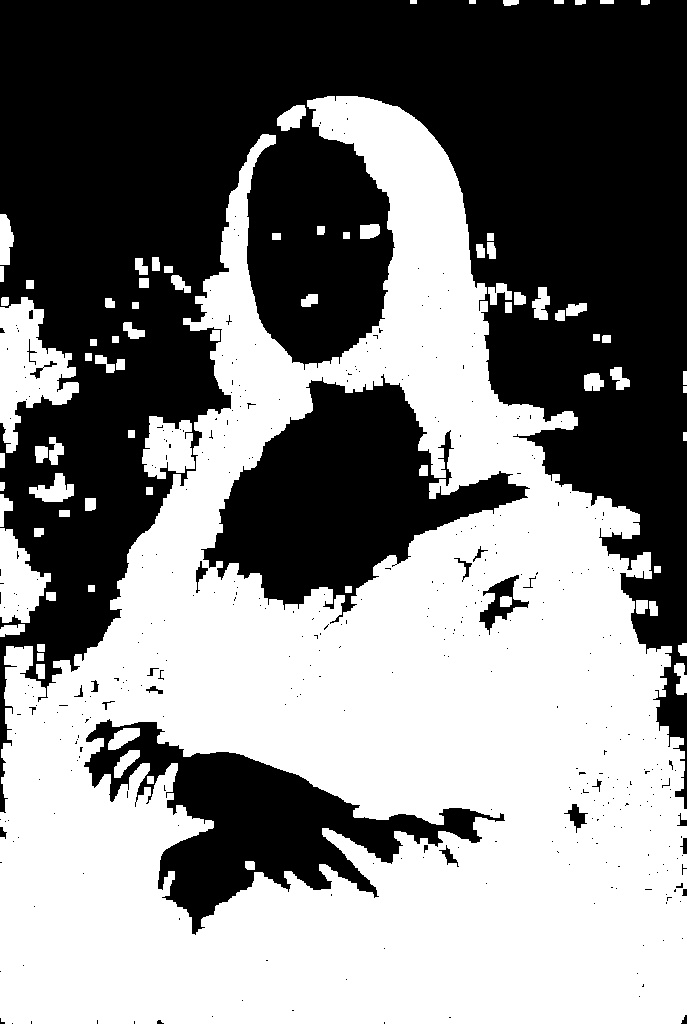
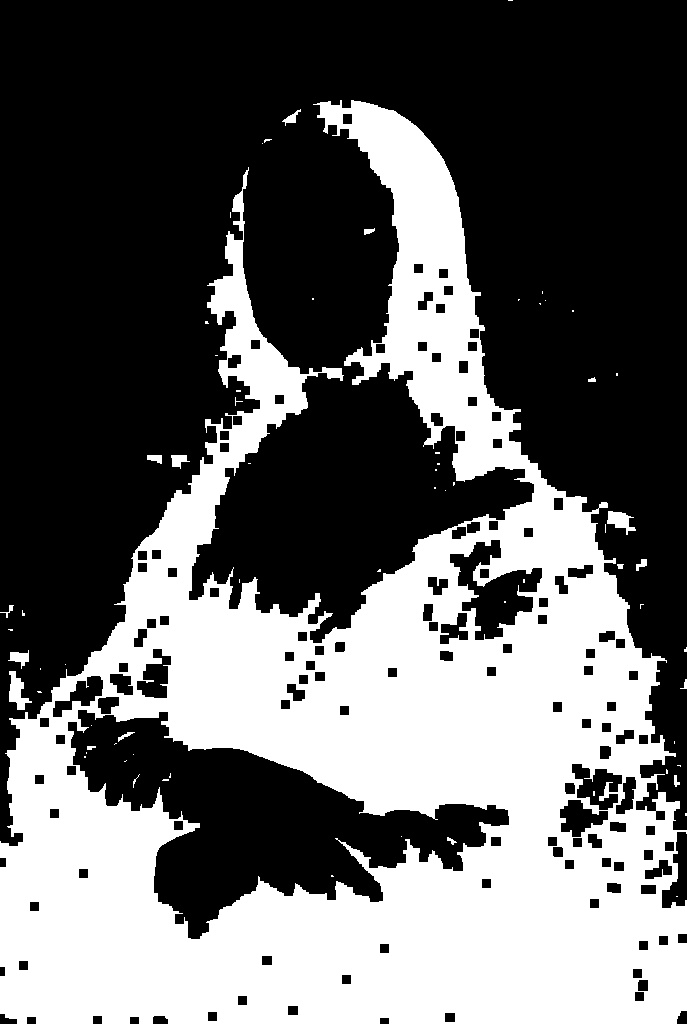
Now, the last step
and then Gioconda will be calculated.

diff --git a/Progetto/modules/frontend_interface.py b/Progetto/modules/frontend_interface.py
@@ -20,34 +20,40 @@ def createForm(img_name, width, height, XPOS, YPOS, data):
     #getting the image
     img_name = "." + img_name
     print(img_name)
-    img = cv.imread(str(img_name), 1)
+    #img = cv.imread(str(img_name), 1)
     #cv.imshow("Gioconda", img)
     #window initialization
     window = tkinter.Tk()
     #elements in the form title and image.
-
-    label = tkinter.Label(window, text = img_name, fg = "blue", font = ("Arial", 17))
+    nomi = img_name.split('/')
+    nome = nomi[len(nomi)-1].split('.')[0]
+    frame_for_label = tkinter.Frame(window, bg = "lightgray")
+    frame_for_label.place(relx = 1/3, rely = 0, relwidth = 1/3,relheight = 1/8)
+    label = tkinter.Label(window, text = nome, fg = "blue", font = ("Arial", 17))
     label.place(relx = width/3, rely =  height/10) #text img_name.split('.')[0] check how to do it
 
     frame = tkinter.Frame(window, bg = "white")
     #it is a rectangle positioned in (width/6, height/3) and
     #it's large width * 2/3 and high height*1/3
     frame.place(relx = 0, rely = 1/8, relwidth = 1,relheight = 3/4)
+   
     
     
     #I will show the image here
-    frame_for_image = tkinter.Frame(frame, bg='red')
-    frame_for_image.place(relx = 0, rely = 0, relwidth = 1/3,relheight = 1)
+    frame_for_image = tkinter.Frame(frame, bg='white')
+    frame_for_image.place(relx = 1/3, rely = 0, relwidth = 1/3,relheight = 5/8)
     #code for the image     
-    canvas = tkinter.Canvas(frame_for_image, width = 300, height = 300)      
-    canvas.pack()      
+    canvas = tkinter.Canvas(frame_for_image, width = 432, height = 700)      
+    canvas.pack()
+         
     #PhotoImage(file = img_name)
-    print(img_name)      
-    canvas.create_image(20,20, anchor=tkinter.NW, image=img)    
+    print(img_name)
+    img = tkinter.PhotoImage(master=canvas, file=img_name, name= nome)    #capire perchè il percorso è cannato.
+    canvas.create_image(20,20, anchor=tkinter.NW, image=img)
 
     #I will insert the table here
-    frame_for_table = tkinter.Frame(frame, bg='gray')
-    frame_for_table.place(relx = 1/3, rely = 0, relwidth = 1/3,relheight = 2/3)
+    frame_for_table = tkinter.Frame(frame, bg='white')
+    frame_for_table.place(relx = 0, rely = 3/4, relwidth = 1,relheight = 1/4)
     table(frame_for_table, data)
     
     #button = tkinter.Button(frame, text = "Execute Calculation", bg = "white", fg = "blue")

diff --git a/Progetto/modules/image_transformer.py b/Progetto/modules/image_transformer.py
@@ -24,11 +24,16 @@ def threshold(img_name,keyval):
         threshold_img  = cv2.erode(threshold_img , None, iterations=2)
 
     elif mainname == "Gioconda":
-        ret, threshold_img = cv2.threshold(img, keyval, 255, cv2.THRESH_BINARY_INV)
-        threshold_img  = cv2.erode(threshold_img , None, iterations=3)
+        threshold_img = cv2.rectangle(img, (0,200), (100,600), (255,255,255), -1) #fill with a white rectangle to have good threshold
+        threshold_img = cv2.rectangle(threshold_img, (0,200), (200,450), (255,255,255), -1) #fill with a white rectangle to have good threshold
+        threshold_img = cv2.rectangle(threshold_img, (525,400), (680,450), (255,255,255), -1)
+        threshold_img = cv2.rectangle(threshold_img, (0,600), (50,500), (255,255,255), -1)
+        ret, threshold_img = cv2.threshold(threshold_img, keyval, 255, cv2.THRESH_BINARY)
         threshold_img = cv2.bitwise_not(threshold_img)
-        threshold_img  = cv2.erode(threshold_img , None, iterations=3)
-        threshold_img = cv2.bitwise_not(threshold_img)
+        #rectKernel = cv2.getStructuringElement(cv2.MORPH_RECT, (13, 5))
+        #threshold_img  = cv2.morphologyEx(threshold_img, cv2.MORPH_BLACKHAT, rectKernel)
+        #threshold_img = cv2.bitwise_not(threshold_img)
+        threshold_img  = cv2.erode(threshold_img , None, iterations=4)
     cv2.imshow(mainname,threshold_img)
     cv2.waitKey(0)
     result = cv2.imwrite(name, threshold_img)

diff --git a/Progetto/main.py b/Progetto/main.py
@@ -5,7 +5,7 @@ from modules.frontend_interface import *
 Gioconda = "./assets/Gioconda.jpg"
 SalvatorMundi = "./assets/SalvatorMundi.jpg"
 DamaconErmellino = "./assets/DamaConErmellino.jpg"
-width = 500
+width = 700
 height = 500
 XPOS = 200
 YPOS = 100
